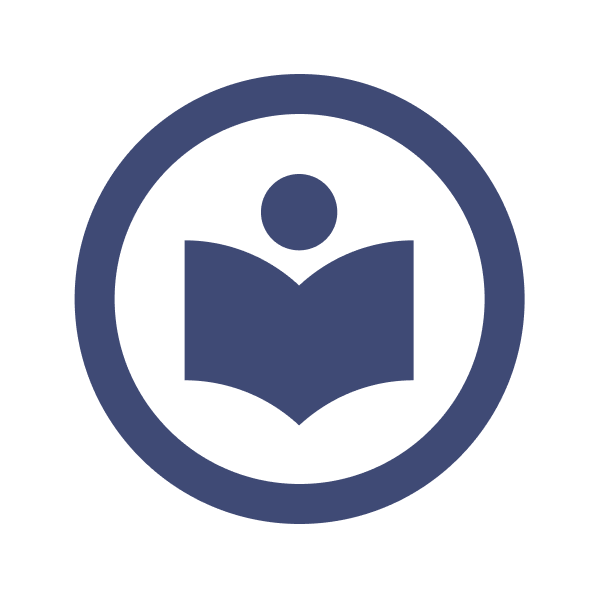
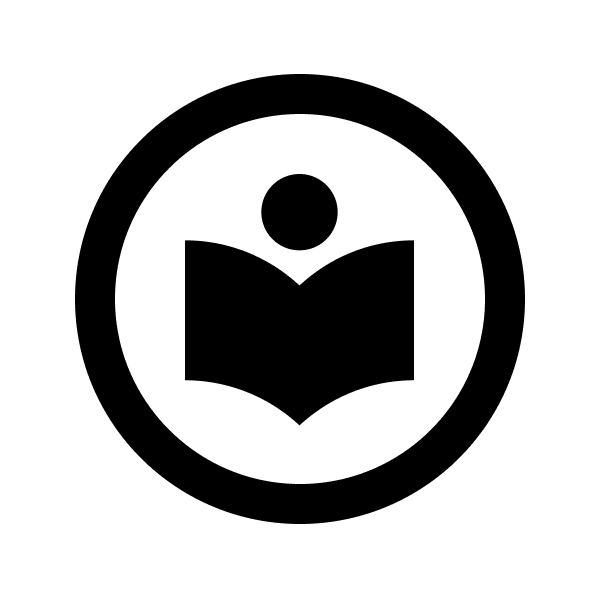
couleur

Changed region(s): [[0.1202, 0.1202, 0.9015, 0.9015], [0.3005, 0.2705, 0.6912, 0.7212]]

diff --git a/site/index.js b/site/index.js
@@ -64,9 +64,8 @@ function loadTableView() {
         document.body.insertAdjacentHTML("beforeend", GenerateHTMLCell(cells[i].title, cells[i].subtitle, cells[i].image, i, classe));
 
         if (cells[i].tint) {
-            document.getElementById(cells[i].image).src = "https://img-19.ccm2.net/cI8qqj-finfDcmx6jMK6Vr-krEw=/1500x/smart/b829396acc244fd484c5ddcdcb2b08f3/ccmcms-commentcamarche/20494859.jpg"
-            document.getElementById(cells[i].image).setAttribute("data-mask", cells[i].image);
-            document.getElementById(cells[i].image).classList.add("mask");
+            document.getElementById(cells[i].image).classList.add("icon");
+            document.getElementById(cells[i].image).style = 'background: url(' + cells[i].image + ');'
         }
 
         

diff --git a/site/style.css b/site/style.css
@@ -58,6 +58,19 @@ cell {
     animation: fadeIn 0.3s ease-out;
 }
 
+.icon {
+    position: relative; /* Allows an absolute positioned psuedo element */
+}
+
+.icon::after {
+    position: absolute;
+    width: 100%;
+    height: 100%;
+    content: "";
+    background: #EC008C; /* The color you want the icon to change to */
+    mix-blend-mode: screen;
+}
+
 @keyframes fadeIn {
     0% {opacity: 0%; left: 10%;}
     100% {opacity: 100%; left: 0px;}

diff --git a/index.html b/index.html
@@ -10,9 +10,7 @@
     <title>CMR</title>
 </head>
 <body id="body">
+    <script src="../site/index.js"></script>
 </body>
-
-<script src="../site/canvasmask.js"></script>
-<script src="../site/index.js"></script>
 
 </html>

diff --git a/site/index.html b/site/index.html
@@ -10,9 +10,7 @@
     <title>CMR</title>
 </head>
 <body id="body">
+    <script src="../site/index.js"></script>
 </body>
-
-<script src="../site/canvasmask.js"></script>
-<script src="../site/index.js"></script>
 
 </html>
